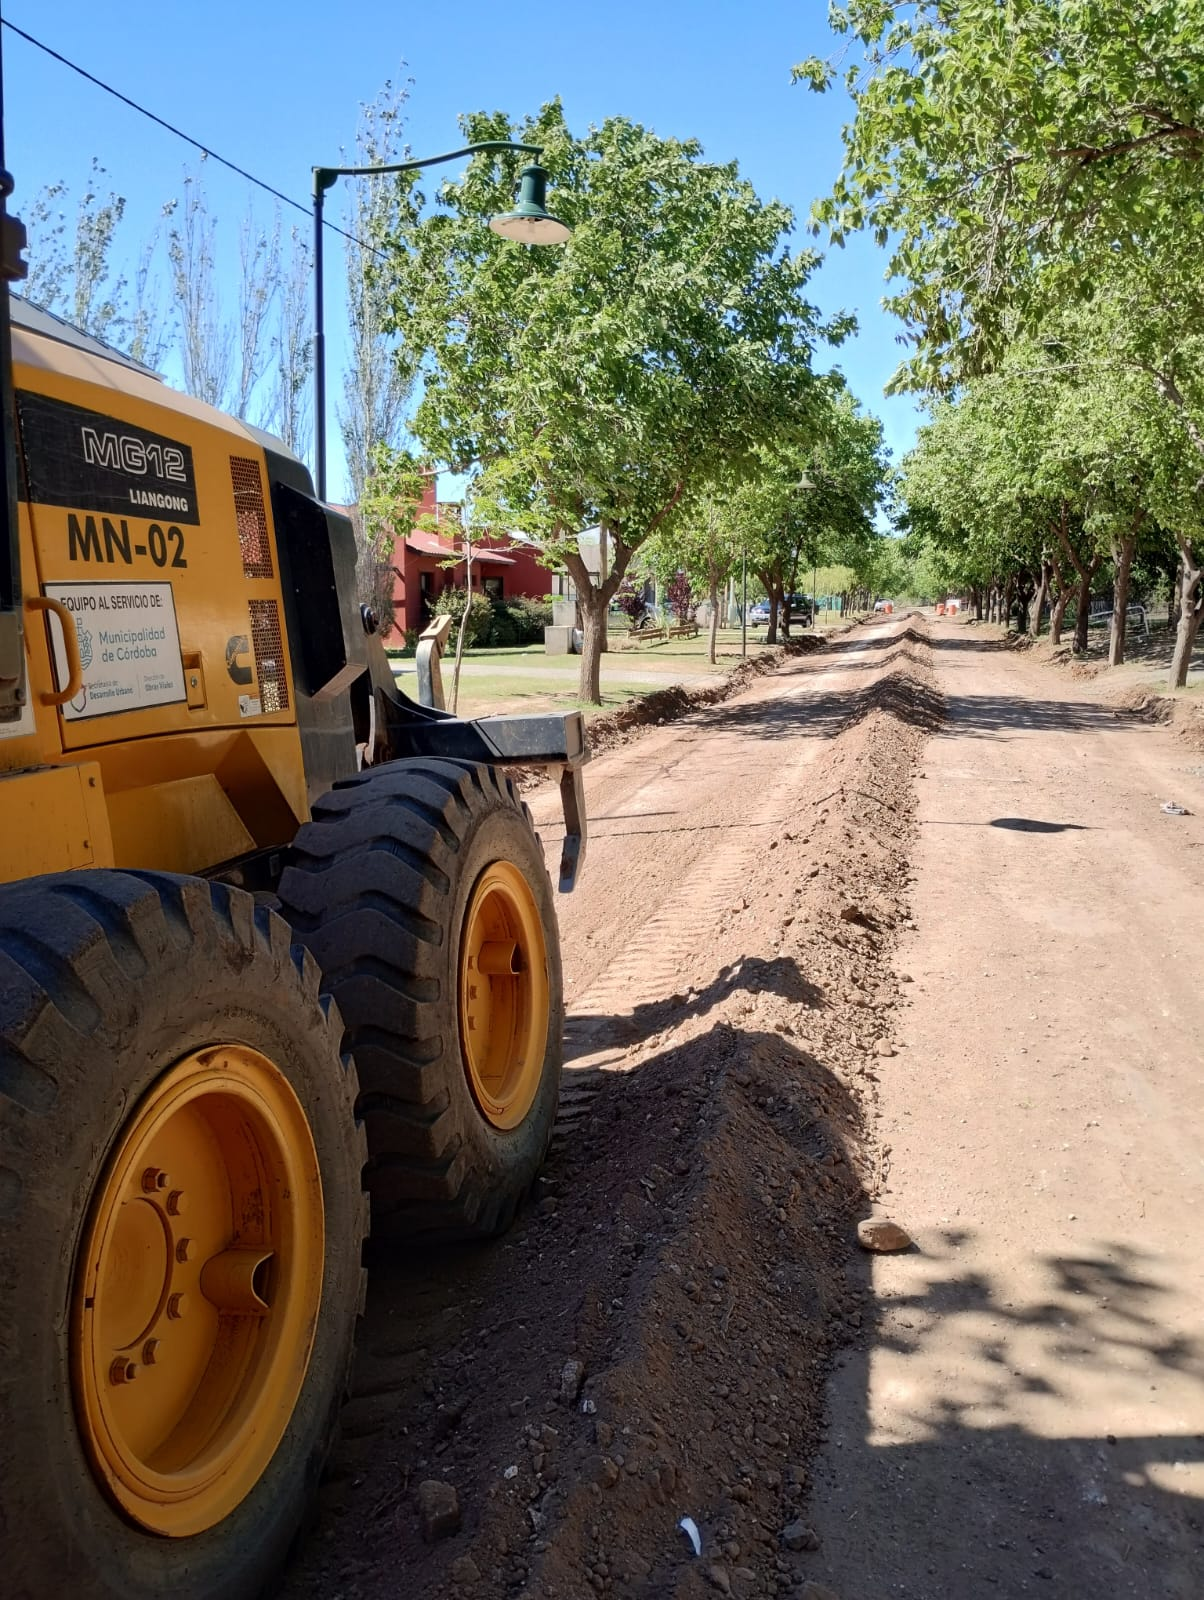
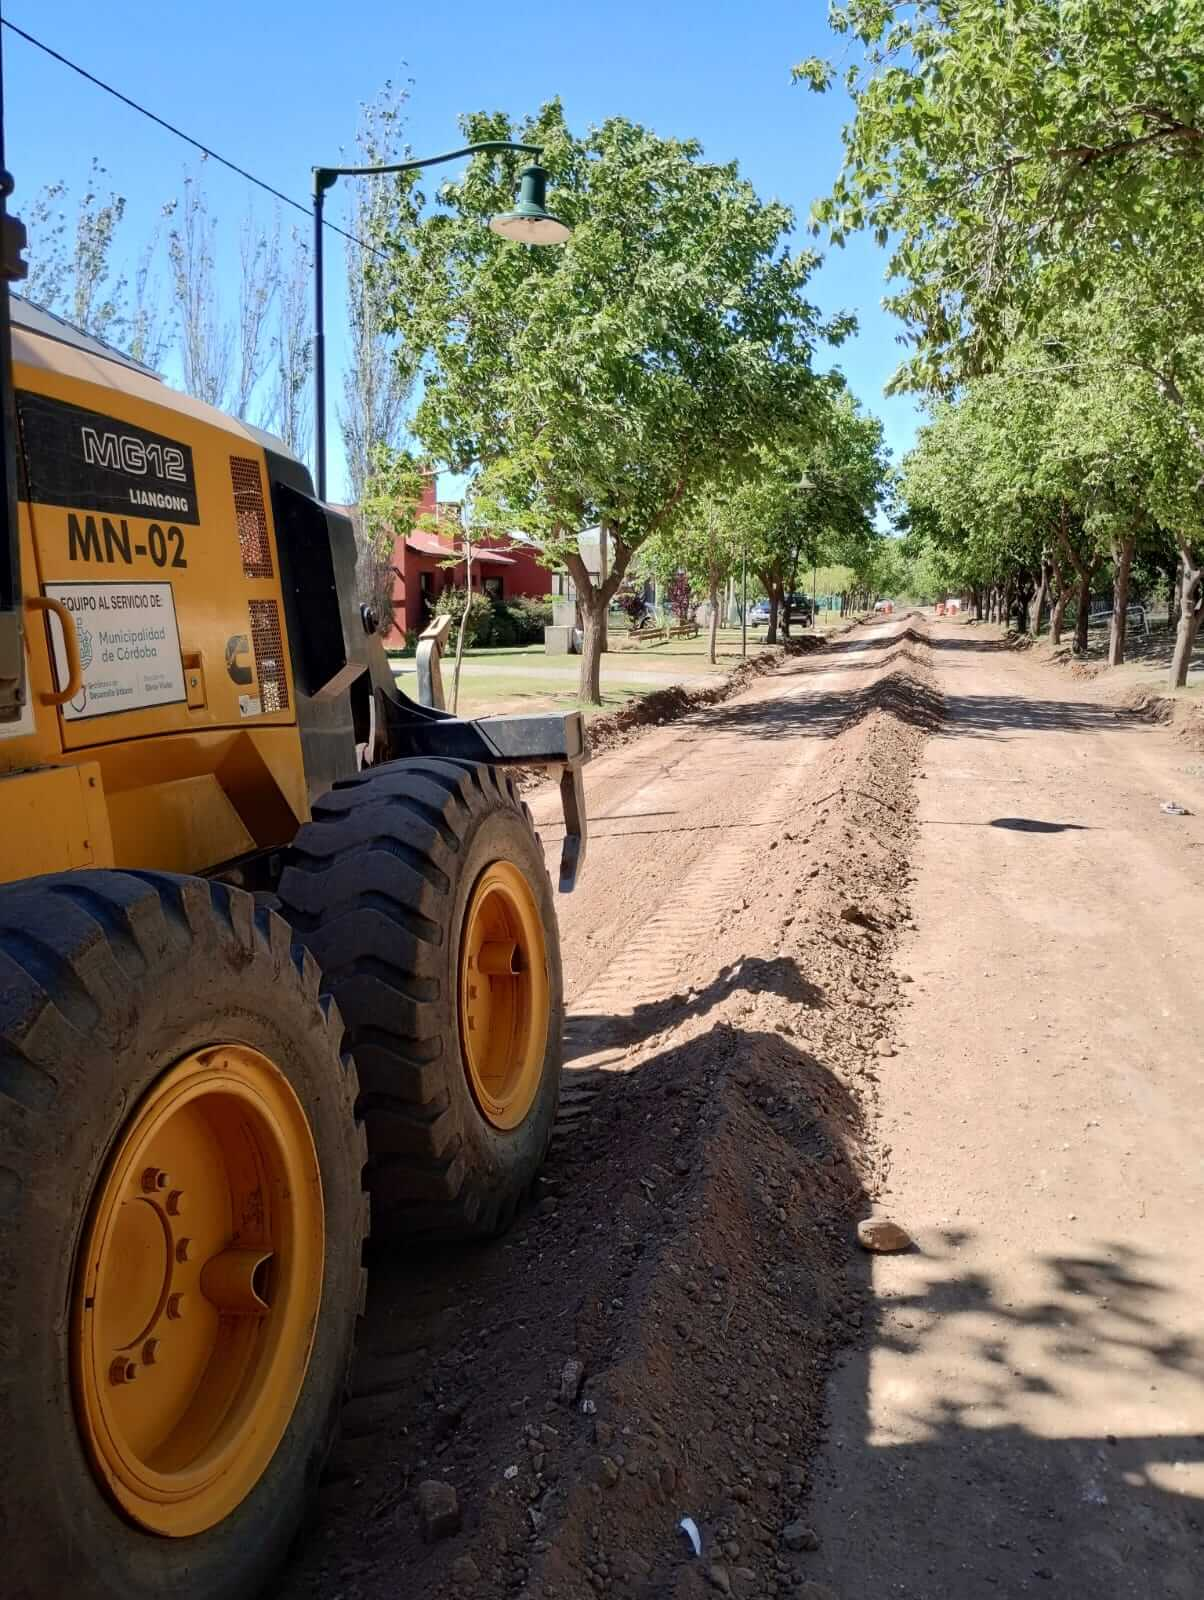
Se comprimieron las fotos utilizadas

diff --git a/pages/nosotros.html b/pages/nosotros.html
@@ -6,6 +6,12 @@
     <meta name="description" content="Somos un equipo de profesionales cuya meta es ofrecer el mejor servicio y satisfacción al cliente">
     <meta name="keywords" content="constructora asfaltado pavimentación movimiento suelo cordón cuneta">
     <meta name="author" content="Maria Jose Giusto">
+    <!-- Meta etiquetas para redes sociales -->
+    <meta property="og:title" content="Cormar Contructora">
+    <meta property="og:description" content="Empresa que brinda servicios de movimiento de suelo, mantenimiento de calles y pavimentación">
+    <meta property="og:url" content="https://giustomariajose.github.io/PreEntrega3-Giusto/">
+    <meta property="og:image" content="../img/movimiento2">
+
     <title>Nosotros</title>
     <!-- Primer link de Bootstrap -->
     <link href="https://cdn.jsdelivr.net/npm/bootstrap@5.3.3/dist/css/bootstrap.min.css" rel="stylesheet" integrity="sha384-QWTKZyjpPEjISv5WaRU9OFeRpok6YctnYmDr5pNlyT2bRjXh0JMhjY6hW+ALEwIH" crossorigin="anonymous">

diff --git a/pages/contacto.html b/pages/contacto.html
@@ -6,6 +6,12 @@
     <meta name="description" content="Estemos en contacto... Te esperamos para contarte más acerca de nuestros servicios y calidad.">
     <meta name="keywords" content="constructora asfaltado pavimentación movimiento suelo cordón cuneta">
     <meta name="author" content="Maria Jose Giusto">
+    <!-- Meta etiquetas para redes sociales -->
+    <meta property="og:title" content="Cormar Contructora">
+    <meta property="og:description" content="Empresa que brinda servicios de movimiento de suelo, mantenimiento de calles y pavimentación">
+    <meta property="og:url" content="https://giustomariajose.github.io/PreEntrega3-Giusto/">
+    <meta property="og:image" content="../img/movimiento2">
+
     <title>Contacto</title>
     <!-- Primer link de Bootstrap -->
     <link href="https://cdn.jsdelivr.net/npm/bootstrap@5.3.3/dist/css/bootstrap.min.css" rel="stylesheet" integrity="sha384-QWTKZyjpPEjISv5WaRU9OFeRpok6YctnYmDr5pNlyT2bRjXh0JMhjY6hW+ALEwIH" crossorigin="anonymous">

diff --git a/pages/galeria.html b/pages/galeria.html
@@ -6,6 +6,12 @@
     <meta name="description" content="Nuestros clientes avalan nuestro servicio y experiencia.">
     <meta name="keywords" content="constructora asfaltado pavimentación movimiento suelo cordón cuneta">
     <meta name="author" content="Maria Jose Giusto">
+    <!-- Meta etiquetas para redes sociales -->
+    <meta property="og:title" content="Cormar Contructora">
+    <meta property="og:description" content="Empresa que brinda servicios de movimiento de suelo, mantenimiento de calles y pavimentación">
+    <meta property="og:url" content="https://giustomariajose.github.io/PreEntrega3-Giusto/">
+    <meta property="og:image" content="../img/movimiento2">
+
     <title>Galería</title>
     <!-- Primer link de Bootstrap -->
     <link href="https://cdn.jsdelivr.net/npm/bootstrap@5.3.3/dist/css/bootstrap.min.css" rel="stylesheet" integrity="sha384-QWTKZyjpPEjISv5WaRU9OFeRpok6YctnYmDr5pNlyT2bRjXh0JMhjY6hW+ALEwIH" crossorigin="anonymous">

diff --git a/pages/servicios.html b/pages/servicios.html
@@ -9,8 +9,9 @@
     <!-- Meta etiquetas para redes sociales -->
     <meta property="og:title" content="Cormar Contructora">
     <meta property="og:description" content="Empresa que brinda servicios de movimiento de suelo, mantenimiento de calles y pavimentación">
+    <meta property="og:url" content="https://giustomariajose.github.io/PreEntrega3-Giusto/">
     <meta property="og:image" content="../img/movimiento2">
-    
+
     <title>servicios</title>
     <!-- Primer link de Bootstrap -->
     <link href="https://cdn.jsdelivr.net/npm/bootstrap@5.3.3/dist/css/bootstrap.min.css" rel="stylesheet" integrity="sha384-QWTKZyjpPEjISv5WaRU9OFeRpok6YctnYmDr5pNlyT2bRjXh0JMhjY6hW+ALEwIH" crossorigin="anonymous">

diff --git a/index.html b/index.html
@@ -9,6 +9,7 @@
     <!-- Meta etiquetas para redes sociales -->
     <meta property="og:title" content="Cormar Contructora">
     <meta property="og:description" content="Empresa que brinda servicios de movimiento de suelo, mantenimiento de calles y pavimentación">
+    <meta property="og:url" content="https://giustomariajose.github.io/PreEntrega3-Giusto/">
     <meta property="og:image" content="./img/movimiento2">
 
     <title>Cormar Contrucciones</title>
